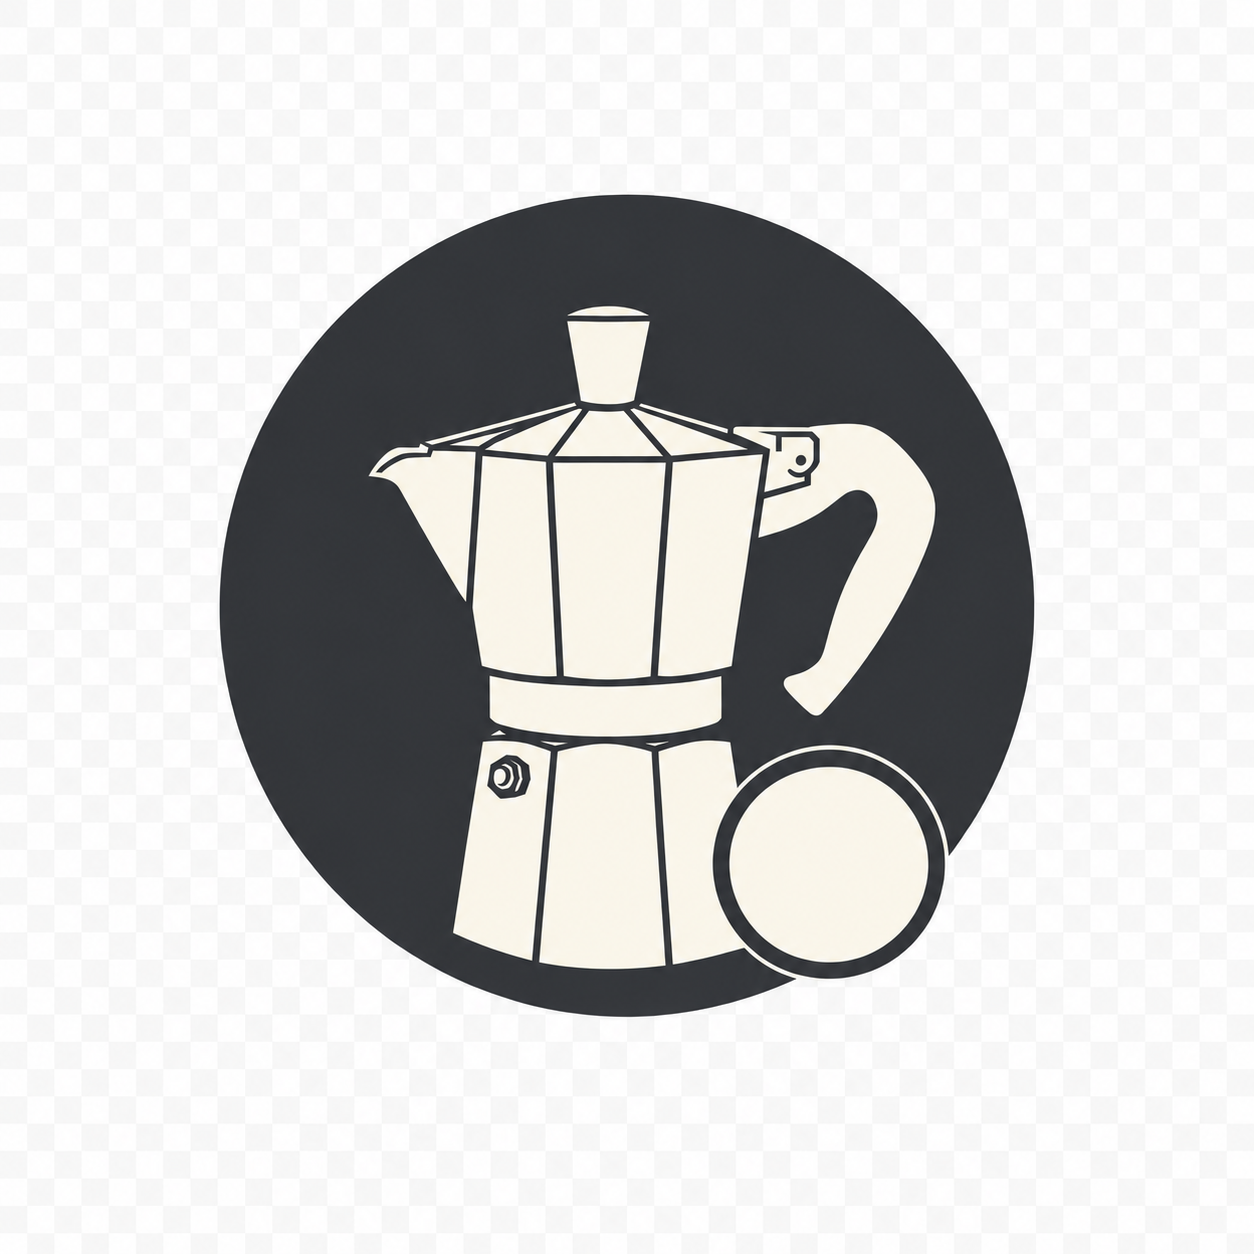
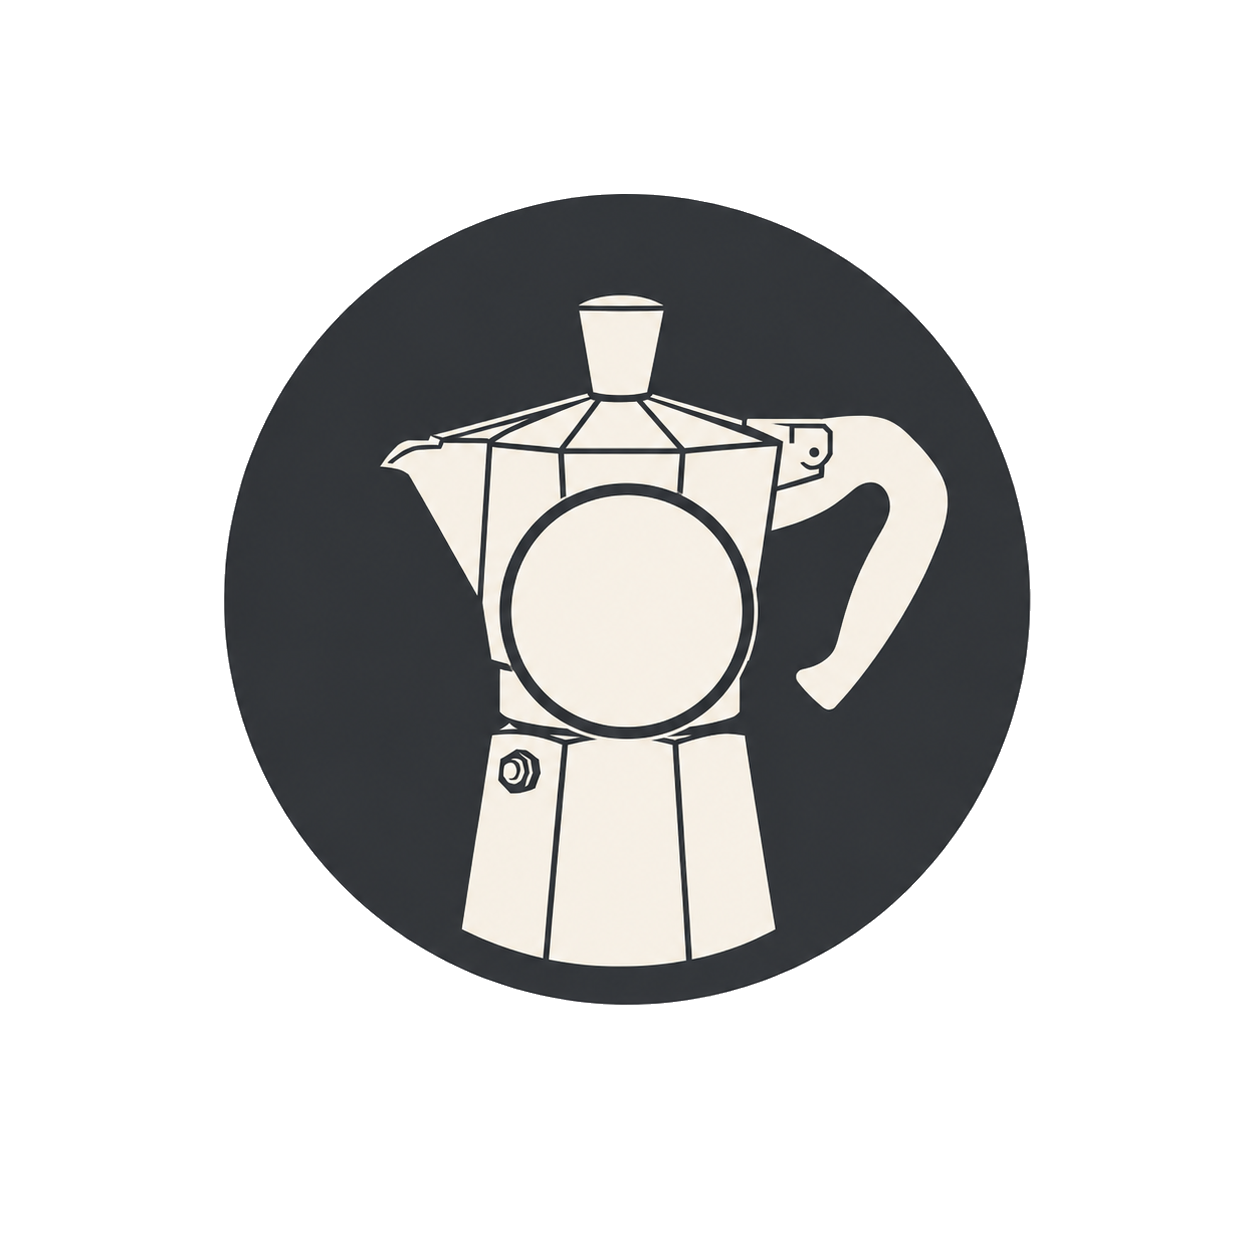
fix: proper PNG transparency + refined marker sizes and cluster count position
PNGs: both were Format24bppRgb (no alpha). Used BFS flood-fill from edges to
make background transparent, saved as Format32bppArgb. Corners now alpha=0,
icons fully intact.

Markers:
- Individual pins: reduced CUP_DISPLAY_PX 36→26 (subtler, less cluttered)
- Clusters: switched to background-image CSS approach (no img tag), 60→52px
- Cluster count: positioned at left:51% top:57% (measured from pixel centroid
  of lower cream region in cluster.png — boiler circle at 51.3%, 57.3%)
- Font sizes per digit count: 1=14px, 2=13px, 3=11px, 4+=9px
- font-weight 900, color #111, antialiased

diff --git a/src/components/MapView/MapView.css b/src/components/MapView/MapView.css
@@ -14,35 +14,33 @@
   background: rgba(255, 255, 255, 0.96);
 }
 
-/* ── Cluster HTML markers (cluster.png + overlaid count) ── */
+/* ── Cluster HTML markers (cluster.png as background-image + count overlay) ── */
 .cluster-marker {
   position: relative;
-  width: 60px;
-  height: 60px;
+  width: 52px;
+  height: 52px;
+  background-image: url('/cluster.png');
+  background-size: contain;
+  background-repeat: no-repeat;
+  background-position: center;
   cursor: pointer;
 }
-.cluster-marker img {
-  width: 100%;
-  height: 100%;
-  display: block;
-  pointer-events: none;
-  user-select: none;
-  -webkit-user-drag: none;
-}
-/* Count number — positioned over the circular boiler body of the mokapot */
+/* Count number — measured at 51.3% x, 57.3% y (boiler circle centroid) */
 .cluster-count {
   position: absolute;
-  left: 50%;
-  top: 56%;
+  left: 51%;
+  top: 57%;
   transform: translate(-50%, -50%);
-  font-weight: 800;
-  color: #1a1a1a;
+  color: #111111;
+  font-weight: 900;
   line-height: 1;
+  text-align: center;
   font-family: system-ui, -apple-system, sans-serif;
   pointer-events: none;
   user-select: none;
   white-space: nowrap;
   letter-spacing: -0.02em;
+  -webkit-font-smoothing: antialiased;
 }
 
 .simple-user-dot {

diff --git a/src/components/MapView/MapView.jsx b/src/components/MapView/MapView.jsx
@@ -10,8 +10,8 @@ const STYLES = {
   satellite: 'mapbox://styles/mapbox/satellite-streets-v12',
 };
 
-// cup.png is 1254×1254px; display at 36px logical (1254/36 ≈ 35 pixelRatio)
-const CUP_DISPLAY_PX = 36;
+// cup.png is 1254×1254px; display at 26px logical (1254/26 ≈ 48 pixelRatio)
+const CUP_DISPLAY_PX = 26;
 
 function buildGeoJSON(cafes) {
   return {
@@ -32,14 +32,11 @@ function loadMapboxImage(map, url) {
 
 function makeClusterEl(clusterId, count) {
   const label = count > 999 ? '999+' : String(count);
-  const fontSize = label.length <= 2 ? 13 : label.length === 3 ? 10 : 8;
+  const fontSize = label.length === 1 ? 14 : label.length === 2 ? 13 : label.length === 3 ? 11 : 9;
   const el = document.createElement('div');
   el.className = 'cluster-marker';
   el.dataset.clusterId = String(clusterId);
-  el.innerHTML = `
-    <img src="/cluster.png" alt="" draggable="false" />
-    <span class="cluster-count" style="font-size:${fontSize}px">${label}</span>
-  `;
+  el.innerHTML = `<span class="cluster-count" style="font-size:${fontSize}px">${label}</span>`;
   return el;
 }
 
@@ -67,7 +64,7 @@ function updateClusterMarkers(map, clusterMarkersRef) {
       if (countEl) {
         const label = count > 999 ? '999+' : String(count);
         countEl.textContent = label;
-        countEl.style.fontSize = (label.length <= 2 ? 13 : label.length === 3 ? 10 : 8) + 'px';
+        countEl.style.fontSize = (label.length === 1 ? 14 : label.length === 2 ? 13 : label.length === 3 ? 11 : 9) + 'px';
       }
     } else {
       const el = makeClusterEl(id, count);